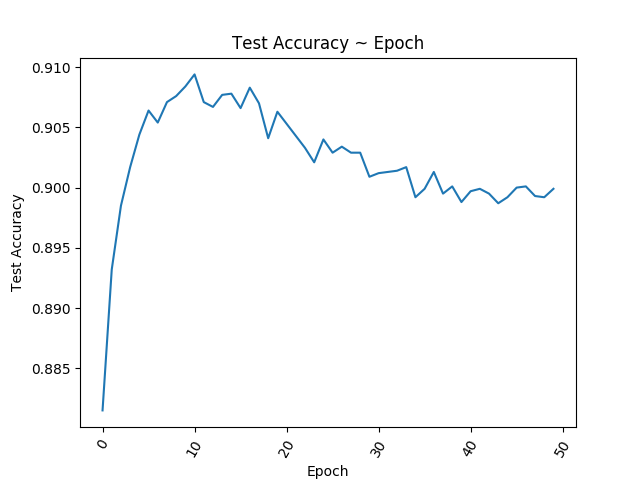
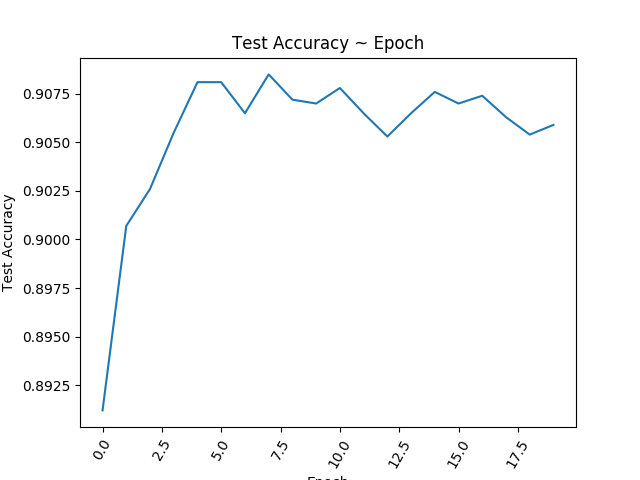
add descriptions to all functions and add configs

diff --git a/logistic_regression.py b/logistic_regression.py
@@ -4,9 +4,11 @@ import h5py
 import time
 import copy
 import matplotlib.pyplot as plt
+from utils.cfg import loadConfig
 
-# load MNIST data
+
 def load_mnist(filename):
+    """load MNIST data"""
     MNIST_data = h5py.File(filename, 'r')
     x_train = np.float32(MNIST_data['x_train'][:])
     y_train = np.int32(np.array(MNIST_data['y_train'][:,0]))
@@ -16,6 +18,7 @@ def load_mnist(filename):
     return x_train,y_train,x_test,y_test
 
 def initialize(num_inputs,num_classes):
+    """initialize the parameters"""
     # num_inputs = 28*28 = 784
     # num_classes = 10
     w = np.random.randn(num_classes, num_inputs) / np.sqrt(num_classes*num_inputs) # (10*784)
@@ -28,6 +31,10 @@ def initialize(num_inputs,num_classes):
     return param
 
 def softmax(z):
+    """implement the softmax functions
+    input: numpy ndarray
+    output: numpy ndarray
+    """
     exp_list = np.exp(z)
     result = 1/sum(exp_list) * exp_list
     result = result.reshape((len(z),1))
@@ -35,10 +42,17 @@ def softmax(z):
     return result
 
 def neg_log_loss(pred, label):
+    """implement the negative log loss"""
     loss = -np.log(pred[int(label)])
     return loss
 
 def mini_batch_gradient(param, x_batch, y_batch):
+    """implement the function to compute the mini batch gradient
+    input: param -- parameters dictionary (w, b)
+           x_batch -- a batch of x (size, 784)
+           y_batch -- a batch of y (size,)
+    output: dw, db, batch_loss
+    """
     batch_size = x_batch.shape[0]
     w_grad_list = []
     b_grad_list = []
@@ -65,6 +79,12 @@ def mini_batch_gradient(param, x_batch, y_batch):
     return dw, db, batch_loss
 
 def eval(param, x_data, y_data):
+    """ implement the evaluation function
+    input: param -- parameters dictionary (w, b)
+           x_data -- x_train or x_test (size, 784)
+           y_data -- y_train or y_test (size,)
+    output: loss and accuracy
+    """
     # w: (10*784), x: (10000*784), y:(10000,)
     loss_list = []
     w = param['w'].transpose()
@@ -78,6 +98,15 @@ def eval(param, x_data, y_data):
     return loss, accuracy
 
 def train(param, hyp ,x_train,y_train,x_test,y_test):
+    """ implement the train function
+    input: param -- parameters dictionary (w, b)
+           hyp -- hyperparameters dictionary
+           x_train -- (60000, 784)
+           y_train -- (60000,)
+           x_test -- x_test (10000, 784)
+           y_test -- y_test (10000,)
+    output: test_loss_list, test_accu_list
+    """
     num_epoches = hyp['num_epoches']
     batch_size = hyp['batch_size']
     learning_rate = hyp['learning_rate']
@@ -97,7 +126,7 @@ def train(param, hyp ,x_train,y_train,x_test,y_test):
         if hyp['learning_schedule'] == True:
             try:
                 if test_accu_list[-1] - test_accu_list[-2] < 0.001:
-                    learning_rate *= 0.95
+                    learning_rate *= hyp['decay_factor']
             except:
                 pass
             print('learning rate:', learning_rate)
@@ -131,14 +160,15 @@ def train(param, hyp ,x_train,y_train,x_test,y_test):
 
 
 
-def plot(loss_list, accu_list):
+def plot(loss_list, accu_list, cfg_index):
+    """store the plots"""
     # epoch_list = list(range(len(loss_list)))
     plt.plot(loss_list)
     plt.ylabel('Loss Function')
     plt.xlabel('Epoch')
     plt.xticks(rotation=60)
     plt.title('Loss Function ~ Epoch')
-    plt.savefig('assets/loss_trend.png')
+    plt.savefig('assets/loss_{}.png'.format(cfg_index))
     plt.show()
 
     plt.plot(accu_list)
@@ -146,18 +176,13 @@ def plot(loss_list, accu_list):
     plt.xlabel('Epoch')
     plt.xticks(rotation=60)
     plt.title('Test Accuracy ~ Epoch')
-    plt.savefig('assets/accr_trend.png')
+    plt.savefig('assets/accr_{}.png'.format(cfg_index))
     plt.show()
 
-def main(): 
-    hyperpara = {
-        'num_epoches' : 50,
-        'batch_size' : 64,
-        'learning_rate' : 0.02,
-        'learning_schedule' : True,
-        'momentum' : False,
-        'mu' : 0.9
-    }
+def main(args): 
+    cfg_index = args.config
+    cfg_name = 'config_{}.json'.format(cfg_index)
+    hyperpara = loadConfig(cfg_name)
 
     # loading MNIST data
     x_train,y_train,x_test,y_test = load_mnist('MNISTdata.hdf5')
@@ -174,7 +199,12 @@ def main():
     loss_list, accu_list = train(param,hyperpara,x_train,y_train,x_test,y_test)
 
     # plot the loss and accuracy
-    plot(loss_list, accu_list)
+    plot(loss_list, accu_list, cfg_index)
 
 if __name__ == "__main__":
-    main()
+    import argparse
+    parser = argparse.ArgumentParser()
+    parser.add_argument("-c", "--config", type=str, 
+                        default="sample", help="Config of hyperparameters")
+    args = parser.parse_args()
+    main(args)

diff --git a/utils/cfg.py b/utils/cfg.py
@@ -1,0 +1,17 @@
+import os
+import sys
+import json
+
+root = os.path.abspath('.')
+if root[-5:] == 'utils':
+    root = root[:-5]
+root += '/configs/'
+
+
+def loadConfig(name):
+    """ Read a configuration file as a dictionary"""
+    full_path = root + name
+    json_file = open(full_path, 'r')
+    cfg = json.load(json_file)
+    json_file.close()
+    return cfg
